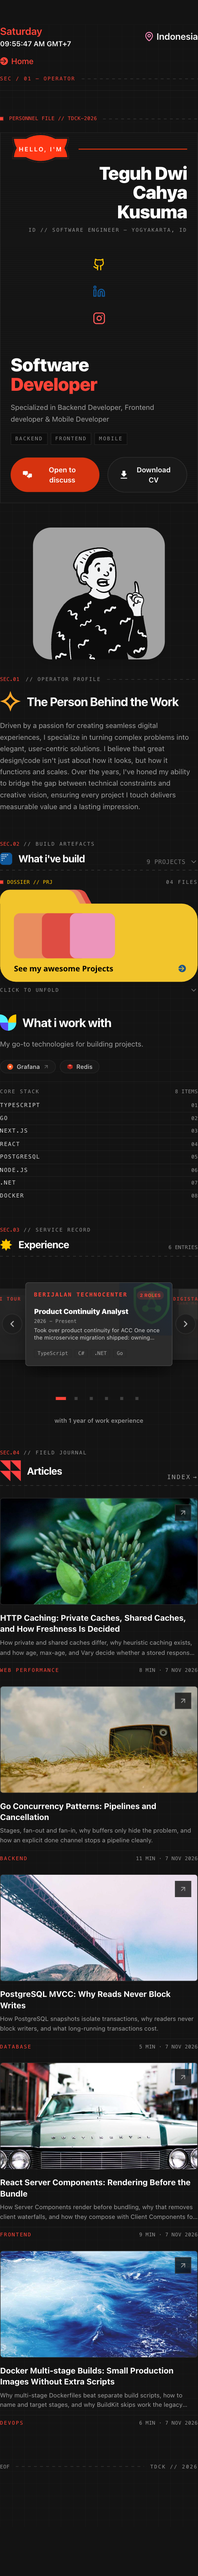
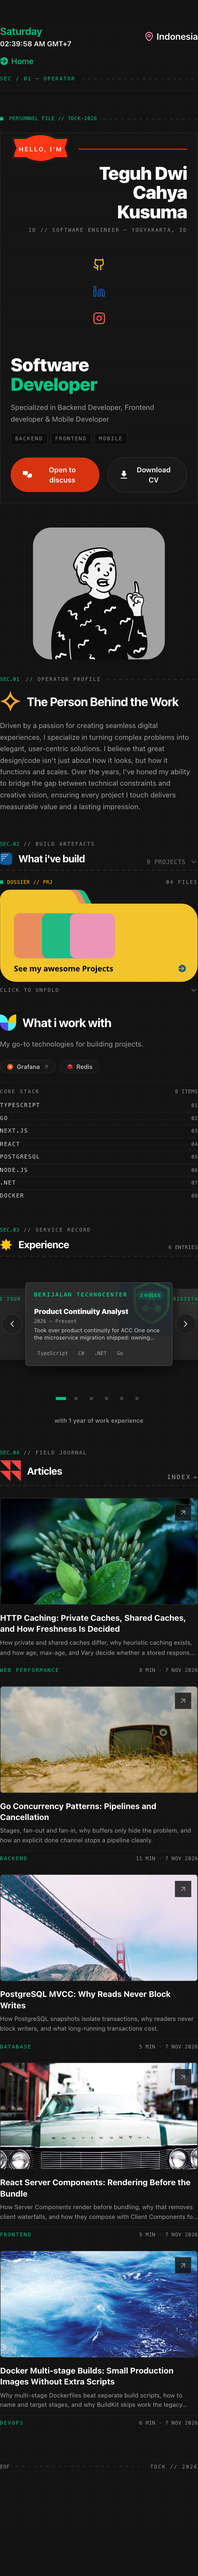
Revert "style(tokens): switch base accent from green to red"
This reverts commit fd2b2702dd5051e9f4330c572296653e9c0783ee.

diff --git a/src/assets/svg/folder.tsx b/src/assets/svg/folder.tsx
@@ -11,7 +11,7 @@ const FolderIcon: React.FC<React.SVGProps<SVGSVGElement>> = (props) => {
       <g clipPath="url(#clip0_1811_1058)">
         <path
           d="M36 30C36 13.4315 49.4315 0 66 0H246.238C255.571 0 264.127 5.19853 268.427 13.4818L283.75 43H36V30Z"
-          fill="var(--signal)"
+          fill="#02C380"
         />
         <path
           d="M19 30C19 13.4315 32.4315 0 49 0H229.238C238.571 0 247.127 5.19853 251.427 13.4818L266.75 43H19V30Z"
@@ -35,7 +35,7 @@ const FolderIcon: React.FC<React.SVGProps<SVGSVGElement>> = (props) => {
           fill="#FFC501"
         />
         <rect x="43" y="73" width="140" height="140" rx="19" fill="#FF884D" />
-        <rect x="130" y="73" width="140" height="140" rx="19" fill="var(--signal)" />
+        <rect x="130" y="73" width="140" height="140" rx="19" fill="#02C380" />
         <rect x="217" y="73" width="140" height="140" rx="19" fill="#FF8FC0" />
       </g>
       <defs>

diff --git a/src/components/molecules/project/ProjectDetailDialog.tsx b/src/components/molecules/project/ProjectDetailDialog.tsx
@@ -193,7 +193,7 @@ export const ProjectDetailDialog = ({
                       href={project.link}
                       target="_blank"
                       rel="noopener noreferrer"
-                      className="inline-flex items-center gap-2 rounded-full bg-[var(--signal)] px-5 py-2.5 text-sm font-bold text-neutral-950 shadow-lg shadow-black/50 transition-all hover:scale-[1.02] hover:bg-[var(--signal-dim)] active:scale-[0.98]"
+                      className="inline-flex items-center gap-2 rounded-full bg-[var(--signal)] px-5 py-2.5 text-sm font-bold text-neutral-950 shadow-lg shadow-emerald-950/40 transition-all hover:scale-[1.02] hover:bg-emerald-400 active:scale-[0.98]"
                     >
                       <span>
                         {project.link.includes("github.com")

diff --git a/src/styles/tokens.css b/src/styles/tokens.css
@@ -24,10 +24,10 @@
   --text-low: #8f8f8f;
 
   /* ---- Signal palette (identity anchors) -------------------------------- */
-  --signal: #ff4438;
-  --signal-dim: #d92c20;
+  --signal: #02c380;
+  --signal-dim: #04a06a;
   --caution: #ffc501;
-  --alert: #c81e1e;
+  --alert: #ff4141;
   --petal-indigo: #574bf5;
   --petal-cyan: #4ff1ff;
   --petal-amber: #ffc700;
@@ -233,7 +233,7 @@
   --ink-540: #383838;
   --ink-500: #414141;
   --text-mid-2: #a1a1a1;
-  --signal-deep: #4a0f0b;
+  --signal-deep: #004e33;
 }
 
 @media (prefers-reduced-motion: reduce) {

diff --git a/docs/design/README.md b/docs/design/README.md
@@ -16,7 +16,6 @@ Each route is filed as `<route>-<width>.png`.
 - 15/15 route×width pairs render an `<h1>` and report `scrollWidth === innerWidth` (no horizontal overflow).
 - Home DOM order: Hero → About → "What i've build" → "What i work with" → Experience → Articles.
 - Colours resolve from `src/styles/tokens.css`; no hex literals remain in the public component set.
-- Base accent is red (`--signal: #ff4438`, 5.4:1 on `#141414`); the previous green is gone from every public surface.
 - Reduced motion: transitions ≈0 s, `animation-name: none`, carousel autoplay halted, modal opens without scale.
 - Lighthouse (mobile, production build): `/` = 100 performance / 100 accessibility, `/article` = 90 / 100 (re-run after the carousel stabilisation, same numbers).
 
